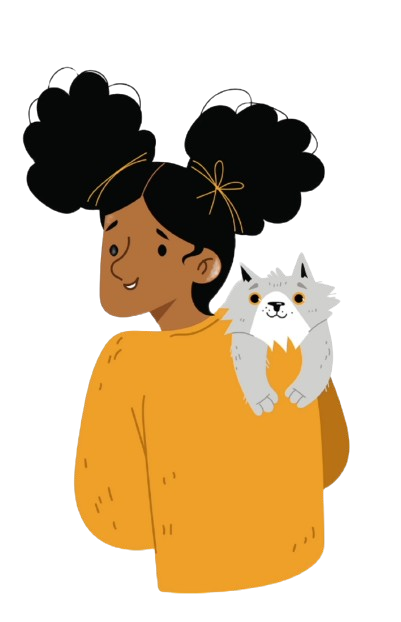
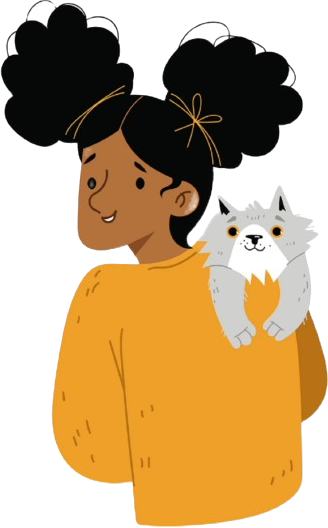
#3 correción de vista formulario
- Se cambió la fuente de texto, ahora tiene el mismo que el resto de la página. Se emprolijaron los subtitulos.
- Se emprolijó el formulario: se cambió el tamaño de las letras, los inputs, la posición y tamaño de las imágenes.

diff --git a/templates/encontraste_una_mascota.html b/templates/encontraste_una_mascota.html
@@ -23,8 +23,8 @@
       <div class="contenedor_img_form">
 
         <div class="imagenes_form">
-          <img src="../static/img/chica_y_perro.png" alt="chica y perro" width="150" height="150"/>
-          <img src="/static/img/chico_y_perrosilla.png" alt="chico y perro en una silla" width="150", height="200">
+          <img src="../static/img/chica_y_perro.png" alt="chica y perro" width="300" height="300"/>
+          <img src="/static/img/chico_y_perrosilla.png" alt="chico y perro en una silla" width="380", height="400">
 
         </div>
 
@@ -33,6 +33,7 @@
             <ul>
               <li>
                 <label for="animal">Indique si la mascota encontrada es un perro o un gato:</label>
+                <br>
                 <select>
                   <option value="none">-</option>
                   <option value="perro">Perro</option>
@@ -41,6 +42,7 @@
               </li>
               <li>
                 <label for="edad">Indique si el animal es cachorro o adulto:</label>
+                <br>
                 <select>
                   <option value="none">-</option>
                   <option value="cachorro">Cachorro</option>
@@ -49,10 +51,12 @@
               </li>
               <li>
                 <label for="raza">Raza de la mascota:</label>
+                <br>
                 <input type="text" id="raza" name="raza_animal"/>
               </li>
               <li>
                 <label for="color">Indique el color predominante del animal:</label>
+                <br>
                 <select>
                   <option value="none">-</option>
                   <option value="negro">Negro</option>
@@ -64,6 +68,7 @@
               </li>
               <li>
                 <label for="tamaño">Indique el tamaño de la mascota:</label>
+                <br>
                 <select>
                   <option value="none">-</option>
                   <option value="negro">Pequeño</option>
@@ -73,6 +78,7 @@
               </li>
               <li>
                 <label for="sexo">Indique el sexo de la mascota:</label>
+                <br>
                 <select>
                   <option value="none">-</option>
                   <option value="macho">Macho</option>
@@ -81,18 +87,22 @@
               </li>
               <li>
                 <label for="zona">Zona donde lo encontró:</label>
+                <br>
                 <input type="text" id="zona" name="zona_mascota" />
               </li>
               <li>
                 <label for="mail">Mail de contacto:</label>
+                <br>
                 <input type="mail" id="mail" name="user_mail" />
               </li>
               <li>
                 <label for="descripcion">Descripción de la mascota:</label>
+                <br>
                 <textarea id="descripcion" name="descripcion"></textarea>
               </li>
               <li>
                 <label for="fecha">¿Cuándo lo encontraste?</label>
+                <br>
                 <input type="date" id="fecha" name="fecha_mascota"/>
               </li>
             </ul>
@@ -101,8 +111,8 @@
         </div>
 
         <div class="imagenes_form">
-          <img src="../static/img/chico_y_perro.png" alt="chico y perro" width="150" height="150"/>
-          <img src="/static/img/chica_y_gato.png" alt="chica y gato" width="150", height="200">
+          <img id="chica_y_gato" src="/static/img/chica_y_gato.png" alt="chica y gato" width="200", height="300">
+          <img id="chico_y_perro" src="../static/img/chico_y_perro.png" alt="chico y perro" width="240" height="300"/>
         </div>
   
         <br/>
@@ -111,9 +121,9 @@
     </div>  
 
     <div class="centros_animales">
-      <h2>Hogares de tránsito</h2>
+      <h2>🐾 Hogares de tránsito 🐾</h2>
       <p>En nuestros hogares de tránsito para mascotas, ofrecemos una segunda oportunidad a animales
-         que han sido encontrados perdidos y sin hogar. Acá, cada mascota recibe el cuidado y el cariño 
+         que perdieron su hogar o nunca tuvieron uno. Acá, cada mascota recibe el cuidado y el cariño 
          necesario mientras espera ser adoptada por una familia amorosa.
          <br>
          <br>

diff --git a/static/css/encontraste_mascota.css b/static/css/encontraste_mascota.css
@@ -1,8 +1,14 @@
 /* FUENTE IMPORTADA DE GOOGLE FONTS */
 @import url('https://fonts.googleapis.com/css2?family=Roboto+Slab:wght@100..900&display=swap');
+@import url('https://fonts.googleapis.com/css2?family=Epilogue:ital,wght@0,100..900;1,100..900&display=swap');
 
 html{
     height: 100%;
+}
+
+body{
+    font-family: "Epilogue", sans-serif;
+    font-size: large;
 }
 
 .encontraste_mascota_content {
@@ -11,7 +17,6 @@ html{
     margin-left: 20px;
     background-color: #aaaaaa;
     border-radius: 15px;
-
 }
 
 .titulo_desc{
@@ -22,14 +27,13 @@ html{
 
 h1{
     text-align: center;
-    font-family: "Roboto Slab", serif;
-    font-size: 45px;
+    font-size: 50px;
+    font-weight: bold;
     padding: 10px;
 }
 
 .encontraste_mascota_content p{
     text-align: center;
-    font-family: "Roboto Slab", serif;
     font-size: 20px;
     width: 70%;
     margin-left: auto;
@@ -39,7 +43,10 @@ h1{
 .contenedor_img_form{
     display: flex;
     justify-content: center;
-    margin-bottom: 50px;
+}
+
+.contenedor_img_form img{
+    margin-bottom: 10px;
 }
 
 #formulario{
@@ -55,13 +62,30 @@ h1{
     margin: 30px;
 }
 
+#chica_y_gato, #chico_y_perro {
+    margin-left: 75px;
+}
+
 #formulario button{
     align-items: center;
+    width: 100%;
 }
 
 #formulario label{
-    font-family: "Roboto Slab", sans-serif;
-    font-size: 25px;
+    font-size: 20px;
+}
+
+#formulario input, select, textarea{
+    height: 20px;
+    width: 100%;
+    height: 30px;
+    font-size: 20px;
+    color:#6c5e5e;
+    font-weight: bold;
+}
+
+#formulario li{
+    margin-bottom: 20px;
 }
 
 #imagenes img{
@@ -78,7 +102,6 @@ h1{
 }
 
 #boton-formulario{
-    font-family: "Roboto Slab", serif;
     font-size: 25px;
     margin-left: 2%;
     border-radius: 15px;
@@ -101,7 +124,6 @@ h1{
 }
 
 .centros_animales a{
-    font-family: "Roboto Slab", serif;
     font-size: 20px;
 
 }
@@ -109,13 +131,12 @@ h1{
 .centros_animales h2{
     text-align: center;
     font-size: 50px;
-    font-family: "Roboto Slab", serif;
     padding: 10px;
+    font-weight: bold;
 }
 
 .centros_animales p{
-    text-align: start;
-    font-family: "Roboto Slab", serif;
+    text-align: center;
     width: 80%;
     margin-left: auto;
     margin-right: auto;
@@ -138,7 +159,6 @@ h1{
     border-radius: 15px;
 }
 
-
 .info_centro_animales2{
     padding: 10px;
     margin-top: 50px;
@@ -150,11 +170,19 @@ h1{
 }
 
 .info_centro_animales1 h2, .info_centro_animales1 h3, .info_centro_animales1 p{
-    font-family: "Roboto Slab", serif;
     margin-right: 30px;
 }
 
 .info_centro_animales2 h2, .info_centro_animales2 h3, .info_centro_animales2 p{
     margin-left: 30px;
-    font-family: "Roboto Slab", serif;
+}
+
+.info_centro_animales1 h2, .info_centro_animales2 h2{
+    font-size: 25px;
+    font-weight: bold;
+}
+
+.info_centro_animales1 h3, .info_centro_animales2 h3{
+    font-size: 20px;
+    font-style: italic;
 }
